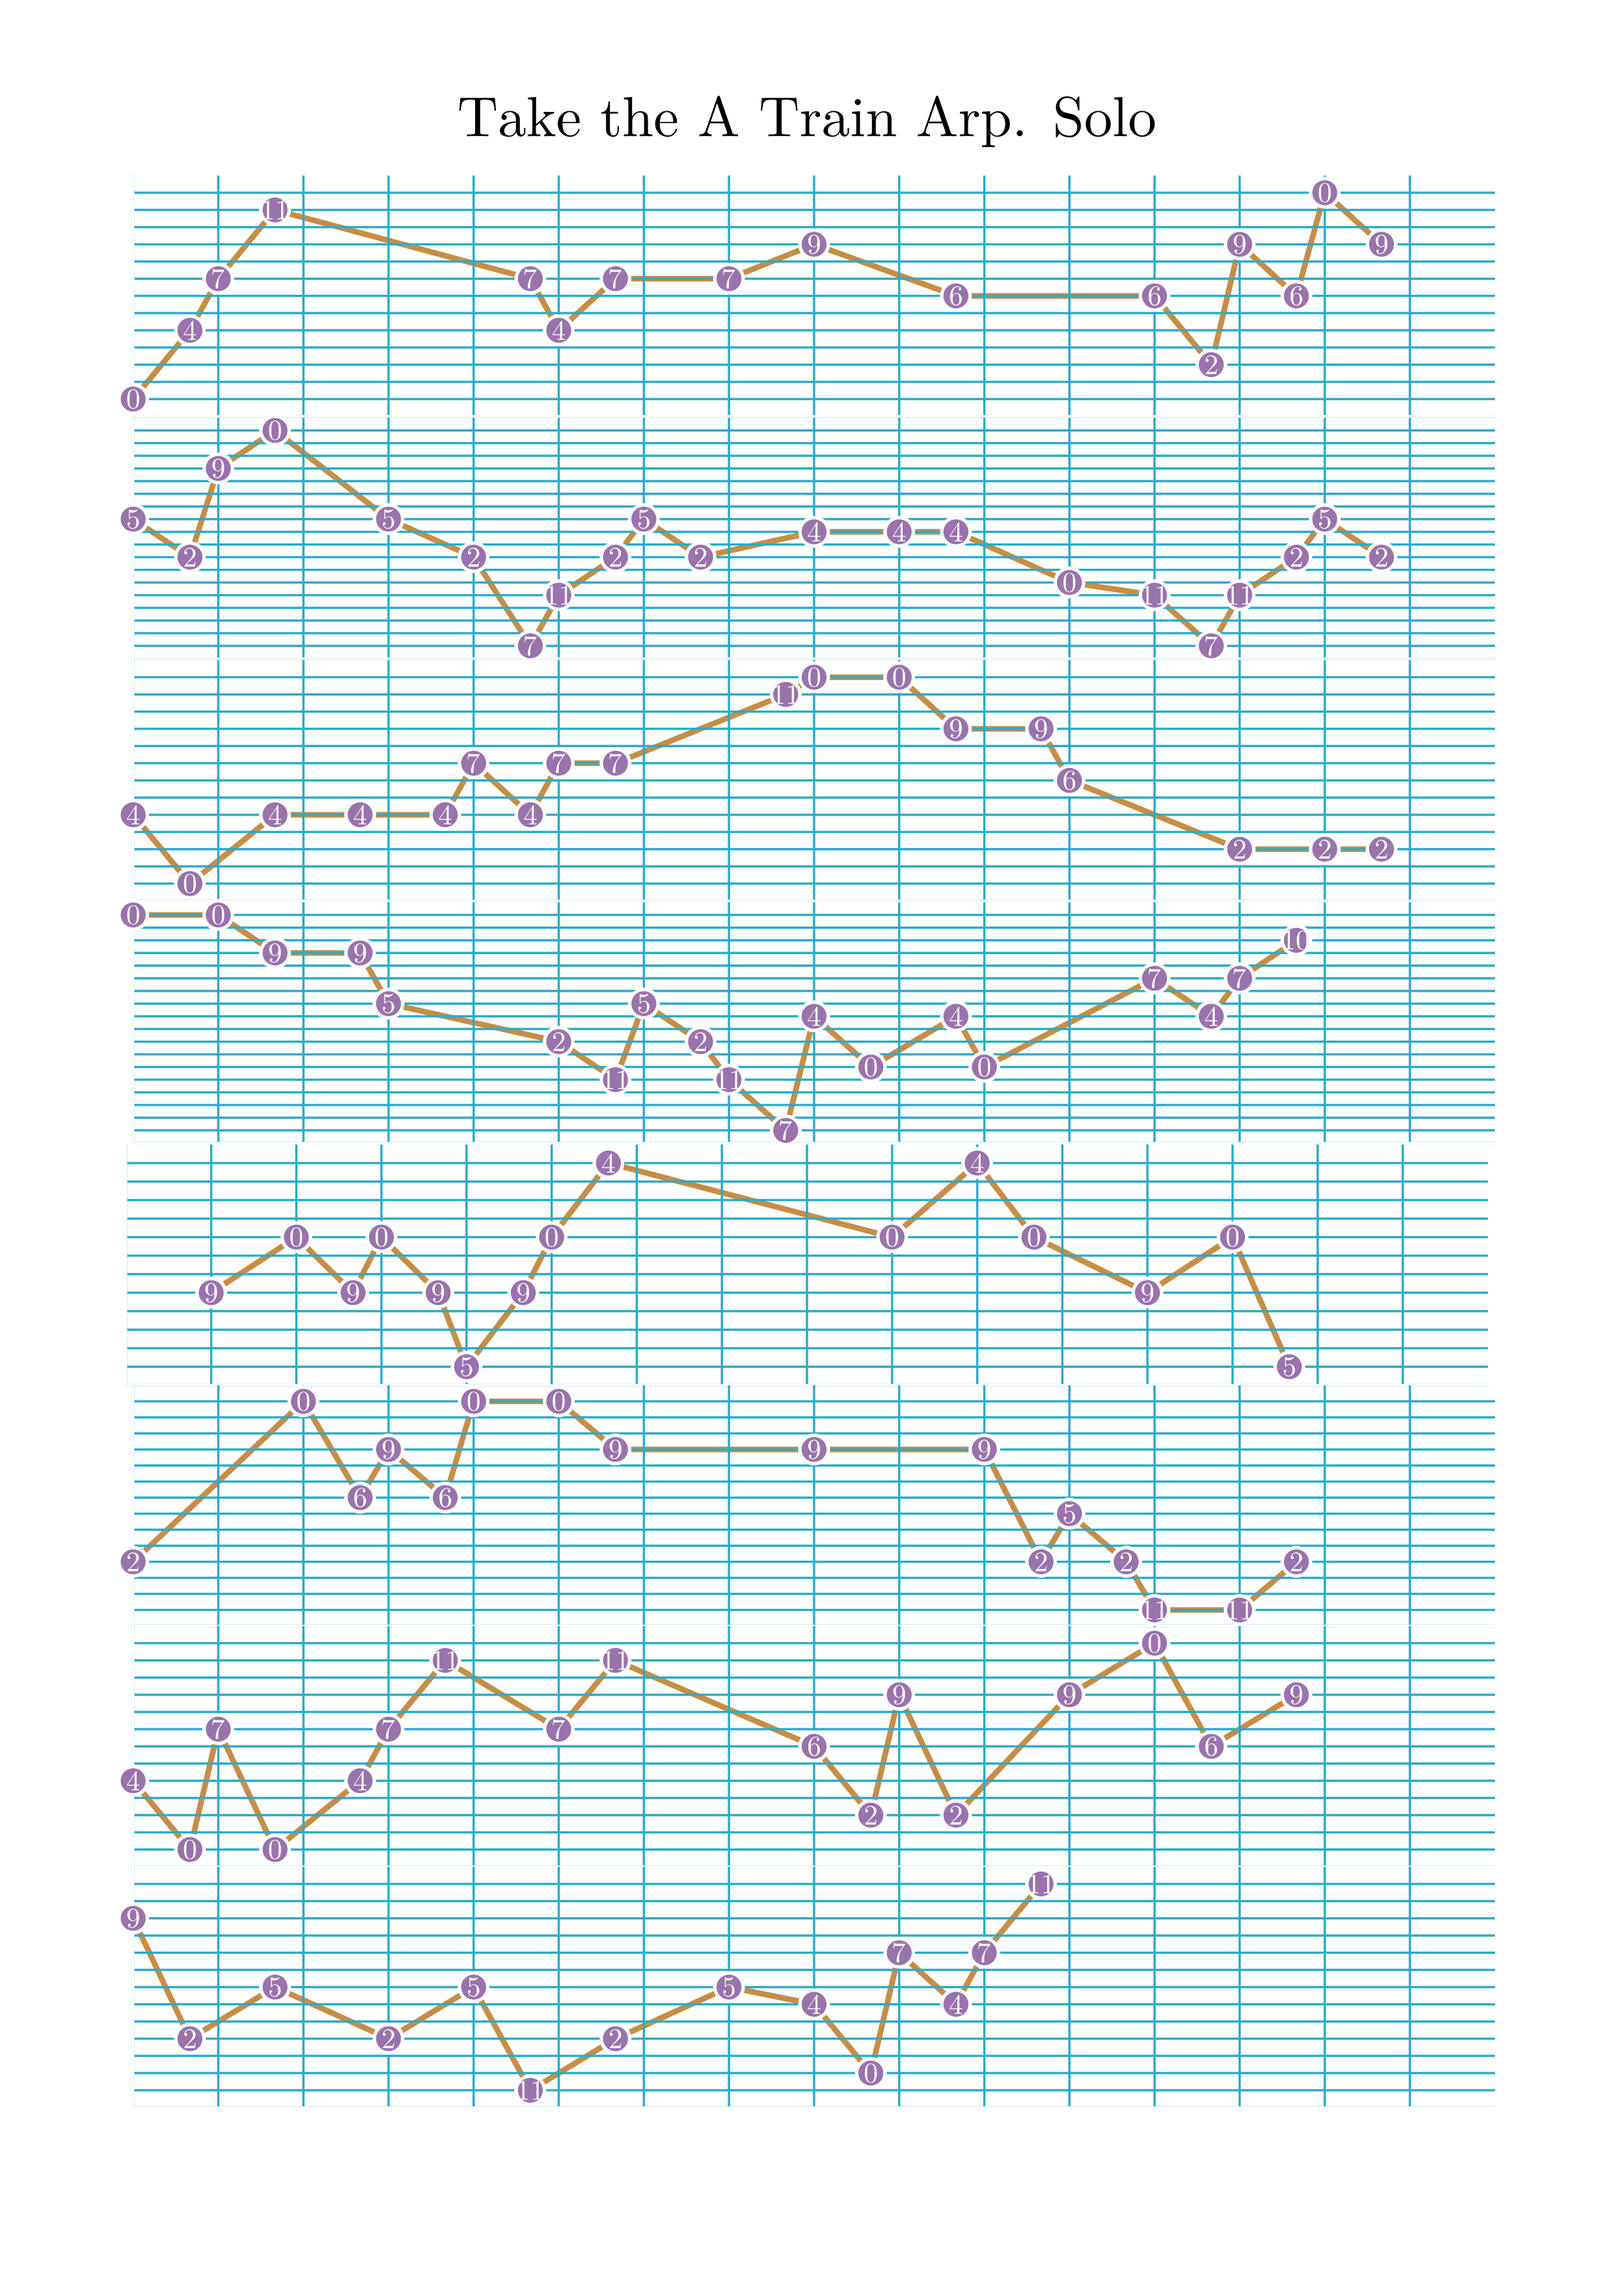
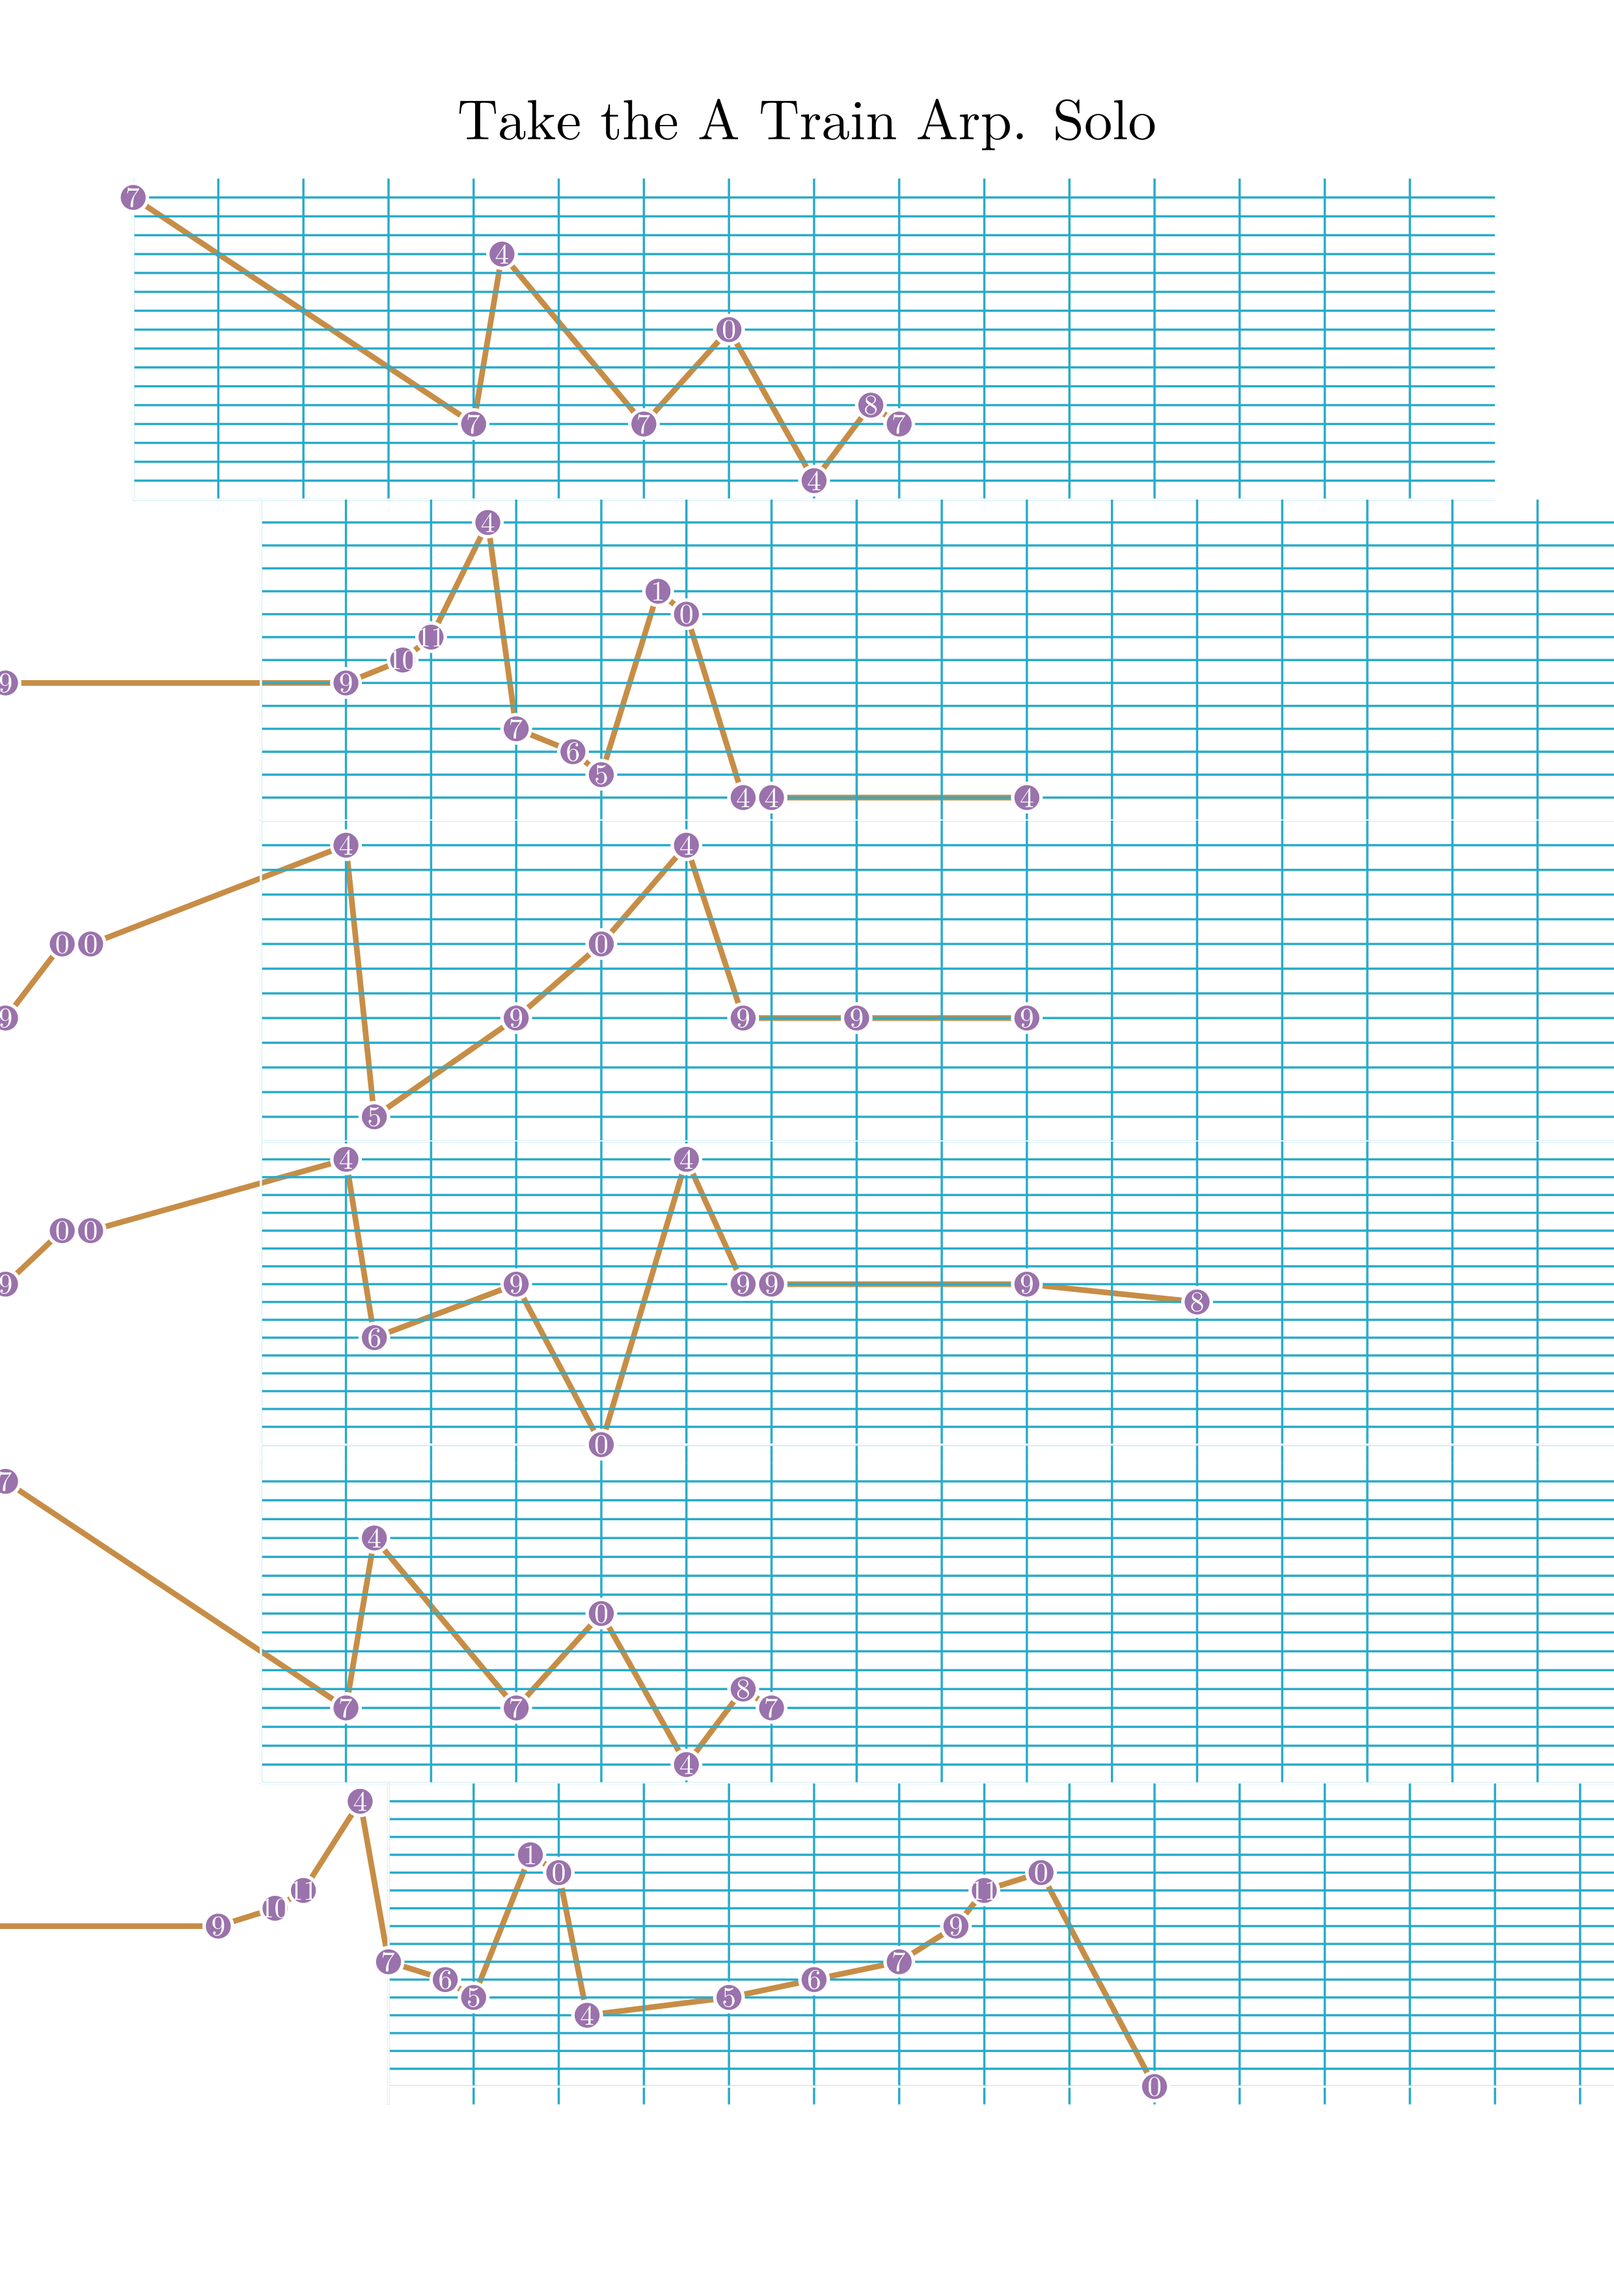
create melody sheet

Changed region(s): [[0.031, 0.0311, 1.0, 0.9322], [0.0, 0.435, 0.031, 0.4661], [0.0, 0.2796, 0.031, 0.3107]]

diff --git a/graph_music_data.py b/graph_music_data.py
@@ -1,0 +1,84 @@
+from fractions import Fraction
+
+b = 1
+# half
+h = 1 / 2
+# thirds
+t = Fraction(b, 3)
+# two thirds
+tt = 2 * t
+
+
+A = [
+    [("7'", [4*b])],
+    [("7 4' 7 0'", [t, b + tt, b, b])],
+    [("4 8", [tt, t, 2 * b])],
+    [("7", [4 * b])],
+    [("9", [4 * b])],
+    [("9 10 11 4' 7 6 5 1'", [tt, t, tt, t, tt, t, tt, t])],
+    [("0' 4 4", [tt, t, 3 * b])],
+    [("4", [4 * b])],
+]
+
+B = [
+    [("9 0' 0'", [tt, t, 3 * b])],
+    [("4' 5 9 0'", [t, b + tt, b, b])],
+    [("4' 9 9", [tt, b + t, 2*b])],
+    [("9", [4*b])],
+    [("9 0' 0'", [tt, t, 3 * b])],
+    [("4' 6 9 0", [t, b + tt, b, b])],
+    [("4' 9 9", [tt, t, 3*b])],
+    [("9 8", [2*b, 2*b])],
+]
+
+A_prime = [
+    [("7'", [4*b])],
+    [("7 4' 7 0'", [t, b + tt, b, b])],
+    [("4 8", [tt, t, 2 * b])],
+    [("7", [4 * b])],
+    [("9", [4 * b])],
+    [("9 10 11 4' 7 6 5 1'", [tt, t, tt, t, tt, t, tt, t])],
+    [("0' 4 5 6", [t, b + tt, b, b])],
+    [("7 9 11 0' R 0", [tt, t, tt, t, b, b])],
+]
+
+take_the_a_train = [
+        *A,
+        *B,
+        *A_prime
+]
+
+jens_solo_arps = [
+    [("0' 4' 7' 11' R", [tt, t, tt, t + b, b])],
+    [("R 7' 4' 7' 7'", [tt, t, tt, t + b, b])],
+    [("9' 6' R", [b + tt, t + b, b])],
+    [("6' 2' 9' 6' 0'' 9' R", [tt, t, tt, t, tt, t, b])],
+    [("5' 2' 9' 0'' 5'", [tt, t, tt, t + b, b])],
+    [("2' 7 11 2' 5' 2' R", [tt, t, tt, t, tt, t, b])],
+    [("4' 4' 4' 0'", [b, tt, t + b, b])],
+    [("11 7 11 2' 5' 2' R", [tt, t, tt, t, tt, t, b])],
+    [("4' 0' R 4' R 4' R 4'", [tt, t, tt, t, tt, t, tt, t])],
+    [("7' 4' 7' 7' R 11'", [tt, t, tt, t, 1 + tt, t])],
+    [("0'' 0'' 9' R 9' 6'", [b, tt, t, tt, t, b])],
+    [("R 2' 2' 2' R", [b, b, tt, t, b])],
+    [("0'' 0'' 9' R 9' 5'", [b, tt, t, tt, t, b])],
+    [("R 2' 11 5' 2' 11 7", [b, tt, t, tt, t, tt, t])],
+    [("4' 0' R 4' 0' R", [tt, t, tt, t, b, b])],
+    [("7' 4' 7' 10' R", [tt, t, tt, t + b, b])],
+    [("R 9 0' 9 0' 9", [b, b, tt, t, tt, t])],
+    [("5 9 0' 4' R", [tt, t, tt, t + b, b])],
+    [("R 0' 4' 0' R", [b, b, tt, t, b])],
+    [("9 0' 5 R", [b, tt, t + b, b])],
+    [("2' R 0'' 6' 9' 6'", [b, b, tt, t, tt, t])],
+    [("0'' 0'' 9' R", [b, tt, t + b, b])],
+    [("9' R 9' 2' 5' 2'", [b, b, tt, t, tt, t])],
+    [("11 11 2' R", [b, tt, t + b, b])],
+    [("4' 0' 7' 0' R 4' 7' 11'", [tt, t, tt, t, tt, t, tt, t + b])],
+    [("7' 11' R", [tt, t + b, b])],
+    [("6' 2' 9' 2' R 9'", [tt, t, tt, t, b, b])],
+    [("0'' 6' R 9' R", [tt, t, tt, t + b, b])],
+    [("9' 2' R 5' 2'", [tt, t, tt, t + b, b])],
+    [("5' 11 R 2' 5'", [tt, t, tt, t + b, b])],
+    [("4' 0' 7' 4' 7' 11'", [tt, t, tt, t, tt, t + b])],
+    [("R", [4 * b])],
+]

diff --git a/line_graph.py b/line_graph.py
@@ -3,6 +3,7 @@ from numuse import  converters
 import numuse.music
 from fractions import Fraction
 import math
+import graph_music_data
 
 
 SCALE = 12
@@ -91,52 +92,10 @@ class LineGraphExample(Scene):
         height=SCALE * math.sqrt(2)
 
 
-        b = 1
-        # half
-        h = 1 / 2
-        # thirds
-        t = Fraction(b, 3)
-        # two thirds
-        tt = 2 * t
-
-        jens_solo_arps = [
-            [("0' 4' 7' 11' R", [tt, t, tt, t + b, b])],
-            [("R 7' 4' 7' 7'", [tt, t, tt, t + b, b])],
-            [("9' 6' R", [b + tt, t + b, b])],
-            [("6' 2' 9' 6' 0'' 9' R", [tt, t, tt, t, tt, t, b])],
-            [("5' 2' 9' 0'' 5'", [tt, t, tt, t + b, b])],
-            [("2' 7 11 2' 5' 2' R", [tt, t, tt, t, tt, t, b])],
-            [("4' 4' 4' 0'", [b, tt, t + b, b])],
-            [("11 7 11 2' 5' 2' R", [tt, t, tt, t, tt, t, b])],
-            [("4' 0' R 4' R 4' R 4'", [tt, t, tt, t, tt, t, tt, t])],
-            [("7' 4' 7' 7' R 11'", [tt, t, tt, t, 1 + tt, t])],
-            [("0'' 0'' 9' R 9' 6'", [b, tt, t, tt, t, b])],
-            [("R 2' 2' 2' R", [b, b, tt, t, b])],
-            [("0'' 0'' 9' R 9' 5'", [b, tt, t, tt, t, b])],
-            [("R 2' 11 5' 2' 11 7", [b, tt, t, tt, t, tt, t])],
-            [("4' 0' R 4' 0' R", [tt, t, tt, t, b, b])],
-            [("7' 4' 7' 10' R", [tt, t, tt, t + b, b])],
-            [("R 9 0' 9 0' 9", [b, b, tt, t, tt, t])],
-            [("5 9 0' 4' R", [tt, t, tt, t + b, b])],
-            [("R 0' 4' 0' R", [b, b, tt, t, b])],
-            [("9 0' 5 R", [b, tt, t + b, b])],
-            [("2' R 0'' 6' 9' 6'", [b, b, tt, t, tt, t])],
-            [("0'' 0'' 9' R", [b, tt, t + b, b])],
-            [("9' R 9' 2' 5' 2'", [b, b, tt, t, tt, t])],
-            [("11 11 2' R", [b, tt, t + b, b])],
-            [("4' 0' 7' 0' R 4' 7' 11'", [tt, t, tt, t, tt, t, tt, t + b])],
-            [("7' 11' R", [tt, t + b, b])],
-            [("6' 2' 9' 2' R 9'", [tt, t, tt, t, b, b])],
-            [("0'' 6' R 9' R", [tt, t, tt, t + b, b])],
-            [("9' 2' R 5' 2'", [tt, t, tt, t + b, b])],
-            [("5' 11 R 2' 5'", [tt, t, tt, t + b, b])],
-            [("4' 0' 7' 4' 7' 11'", [tt, t, tt, t, tt, t + b])],
-            [("R", [4 * b])],
-        ]
 
         all_graphs = VGroup()
         points = []
-        measures = converters.parse_music_measures(jens_solo_arps)
+        measures = converters.parse_music_measures(graph_music_data.take_the_a_train)
         num_lines = len(measures) // 4
         graph_height = height / num_lines
         m = numuse.music.Music(measures, 120)
